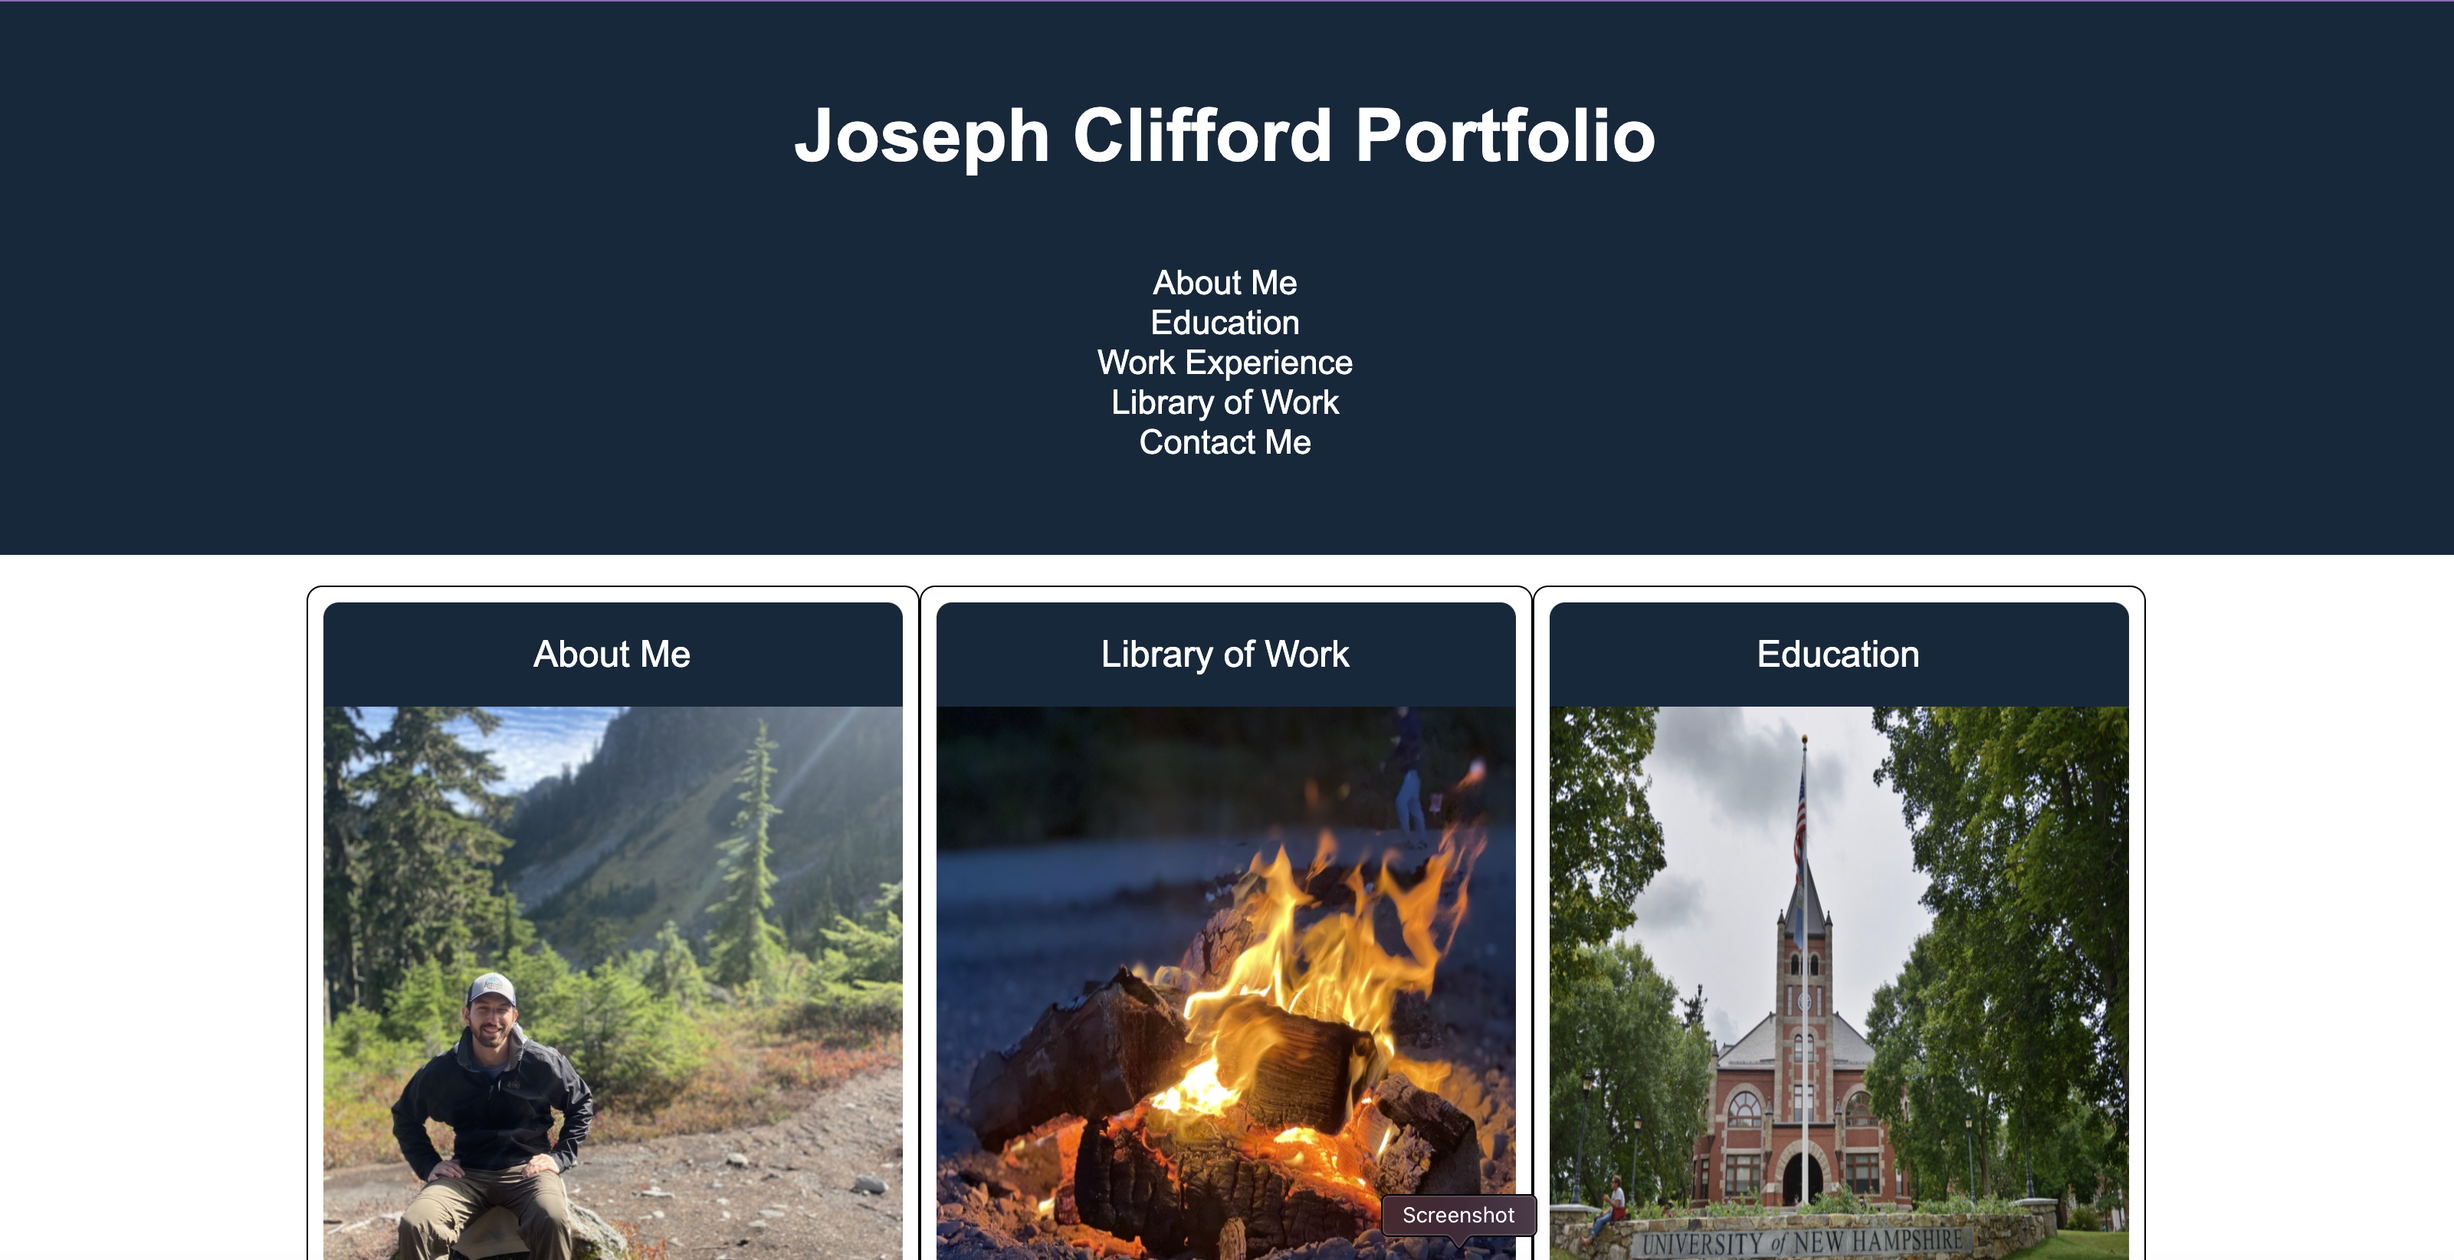
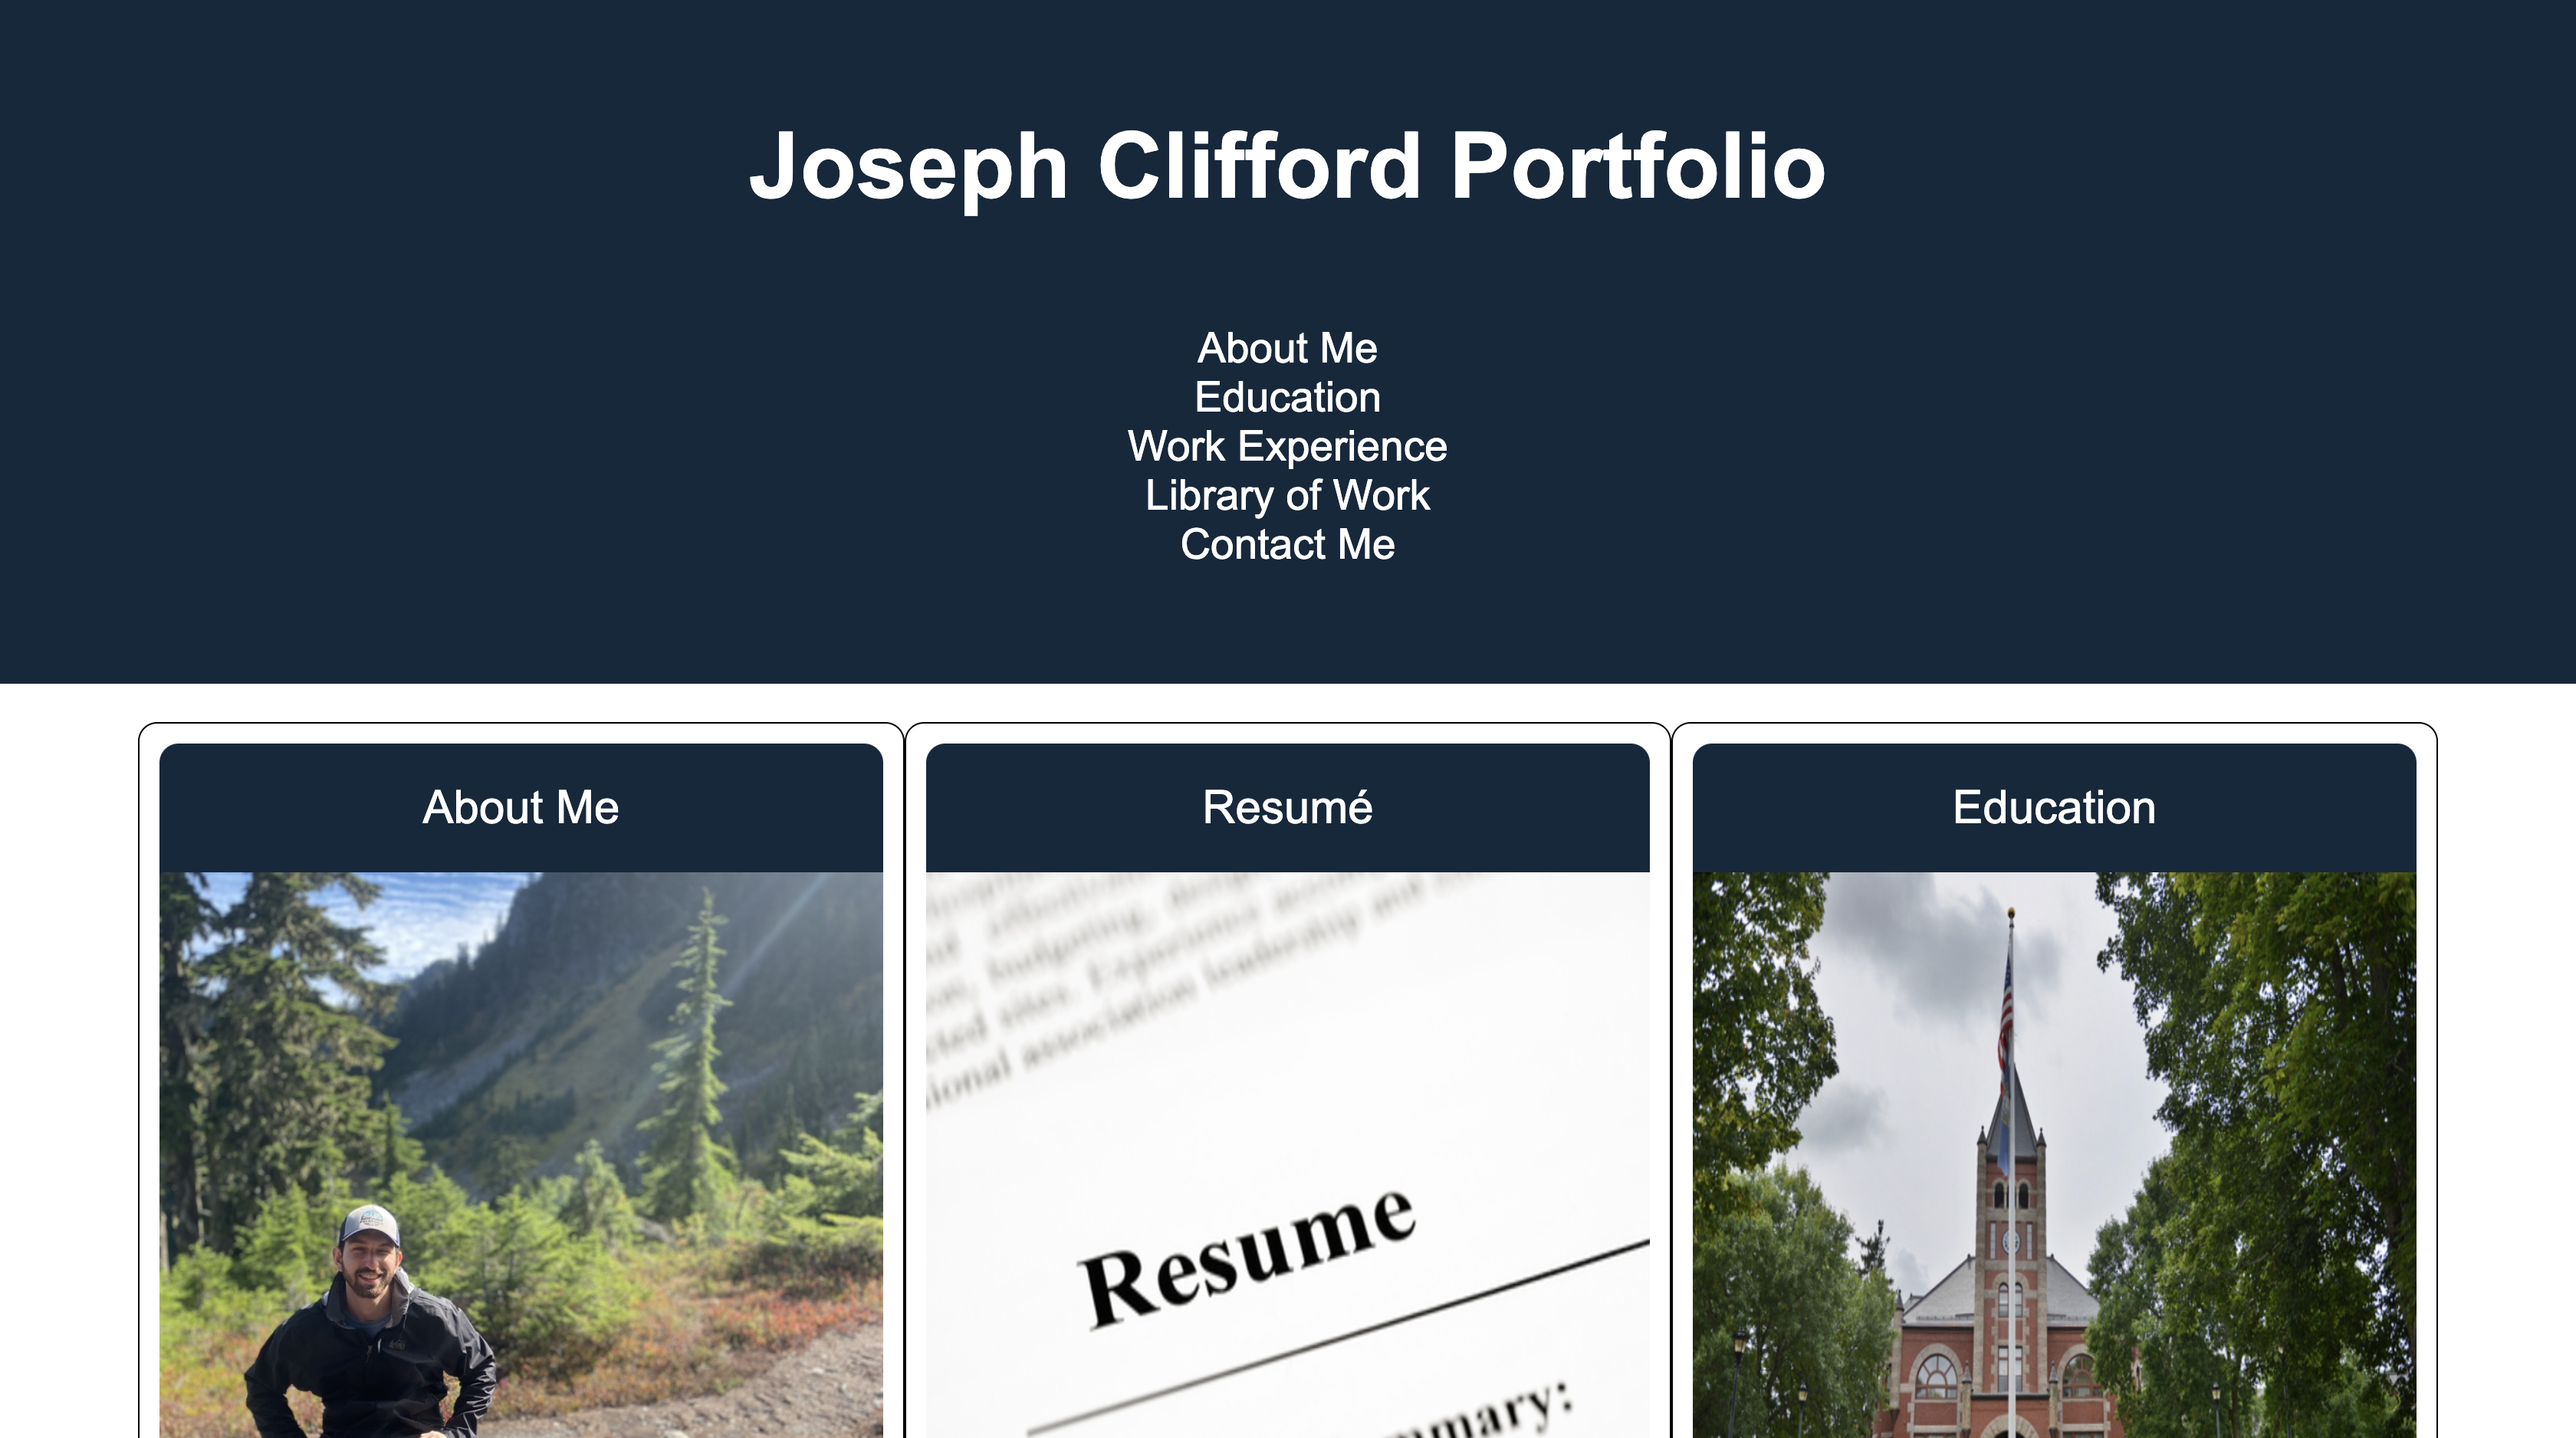
bootstrap, css, readme changes

diff --git a/index.html b/index.html
@@ -4,6 +4,9 @@
     <title>JCPortfolio</title>
     <meta charset="UTF-8" />
     <meta name="viewport" content="width=device-width, initial-scale=1" />
+    <link href="https://cdn.jsdelivr.net/npm/bootstrap@5.1.3/dist/css/bootstrap.min.css" 
+    rel="stylesheet" integrity="sha384-1BmE4kWBq78iYhFldvKuhfTAU6auU8tT94WrHftjDbrCEXSU1oBoqyl2QvZ6jIW3" 
+    crossorigin="anonymous">
     <link rel="stylesheet" type="text/css" href="./assets/style.css" />
   </head>
   <body>
@@ -86,7 +89,17 @@
         
       </div>
     </main>
-
+<!--Footer-->
+<footer class="footer text-center bg-light">
+  <div class="container" id="footer-container">
+    <span class="text-muted"
+      > 2021 
+      <a class="text-info" href="https://github.com/joecliffordofficial"
+        >Joseph Cifford</a
+      ></span
+    >
+  </div>
+</footer>
 
 
   </body>

diff --git a/assets/style.css b/assets/style.css
@@ -14,7 +14,7 @@
   header {
     padding: 60px;
     text-align: center;
-    background: #13293d;
+    background: #22507c;
     color: #fff;
     border-radius: 0 0 0 0;
     font-size: x-large;
@@ -57,7 +57,7 @@
   
   aside {
     flex: 1;
-    background-color: #13293d;
+    background-color: #22507c;
     padding: 80px;
     text-align: center;
     color: white;
@@ -67,7 +67,7 @@
   footer {
     padding: 20px;
     text-align: center;
-    background: #003a92;
+    background: #22507c;
     color: #fff;
   }
   

diff --git a/README.md b/README.md
@@ -1,3 +1,5 @@
+# Portfolio
+
 For this assignment we were tasked to construct a portfolio showing our work and ways to contact us. 
 
 I started with the html building a header, nav links, and cards to fit within the page. From there I did some work gathering my images from my own body of 
@@ -6,9 +8,25 @@ is not much, yet!) but also some links to my LinkedIn profile, my instagram, and
 
 Once I added in all these elements I worked on constructing my layout and fitting everything with a layout designed for mobile devices and tablets. 
 
-Heres a few screenshots of the page I developed and the link as well!
+# Updates!
 
-<img src="assets/ScreenShot1.png">
-<img src="assets/ScreenShot2.png">
+As of 11/6 I've made some changes to the files! From adding new images to updating links to show my Resumé new images and reorganizing the flow of the cards on the page. Take a look at what was changed below! I've also added in my [GitHub](https://github.com/joecliffordofficial) page and also my updated [LinkedIn](https://www.linkedin.com/in/joe-clifford/). I wish I had more time between class and work, but we make do with what time we have. 
+
+With that said, please take a look and what I've cooked up so far!
+
+# List of Changes to LinkedIn and Portfolio page
+
+    - reorganied card flow
+    - updated images and profile photos
+    - added in new folders and added better organization
+    - updated README file as well as minor CSS updates with the addition of BootStrap
+
+# Links & Images
 
 [JC Portfolio](https://joecliffordofficial.github.io/portfolio_jc/)
+
+[Repository](https://github.com/joecliffordofficial/portfolio_jc)
+
+<img src="assets/Images/screenShot1.png">
+<img src="assets/Images/screenShot2.png">
+
